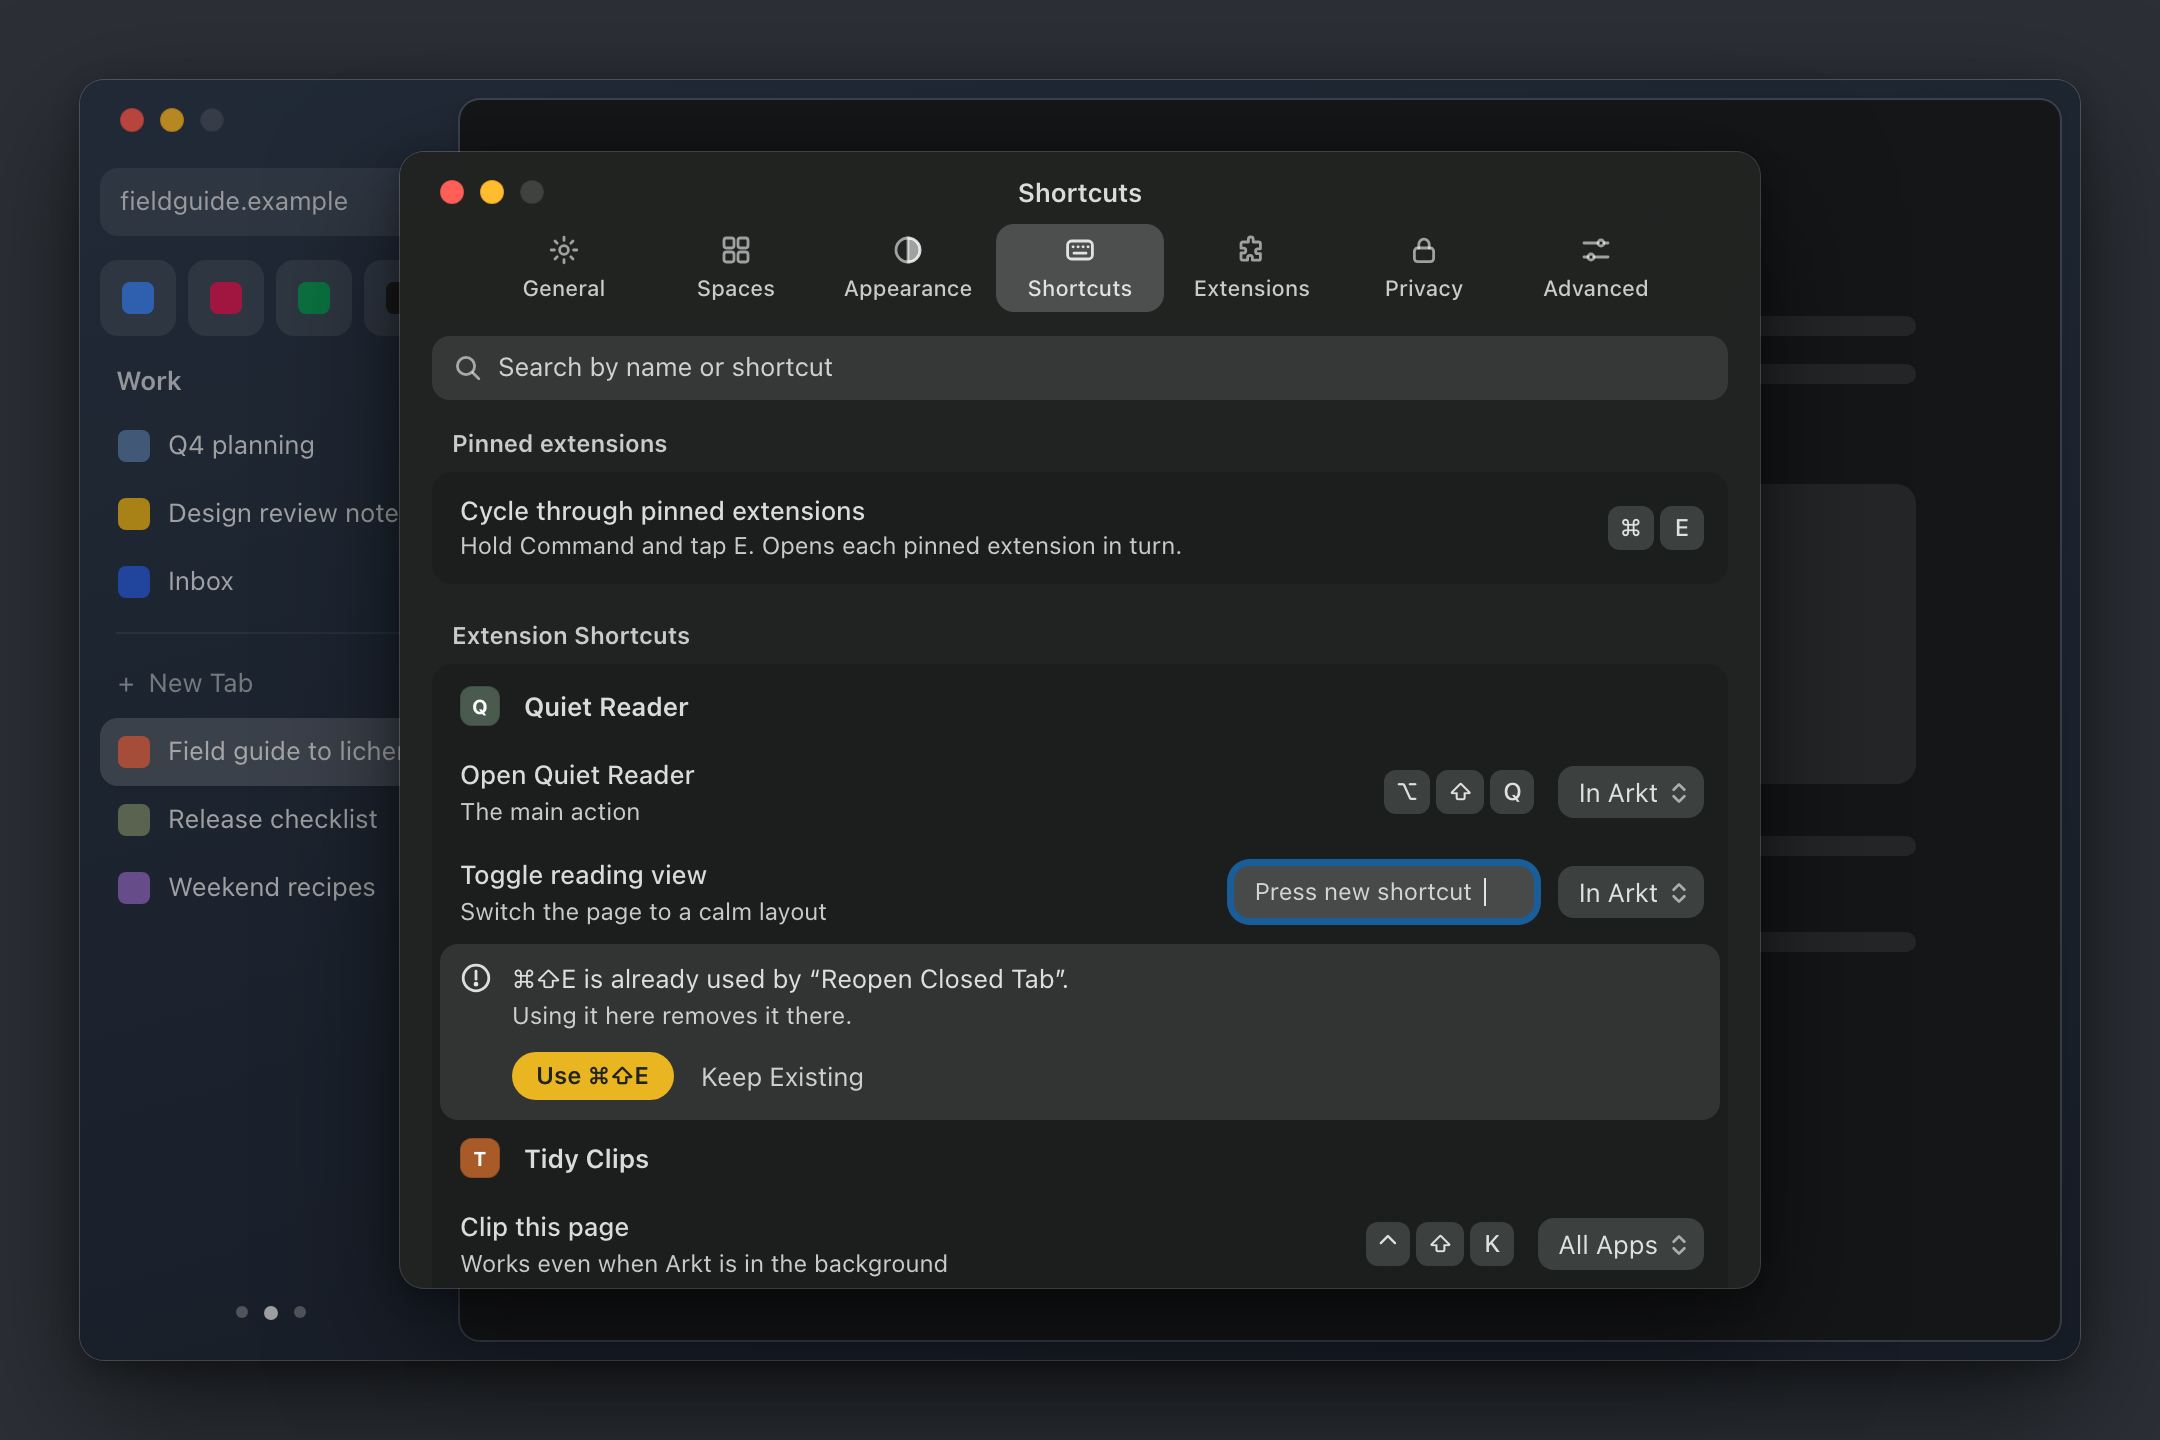
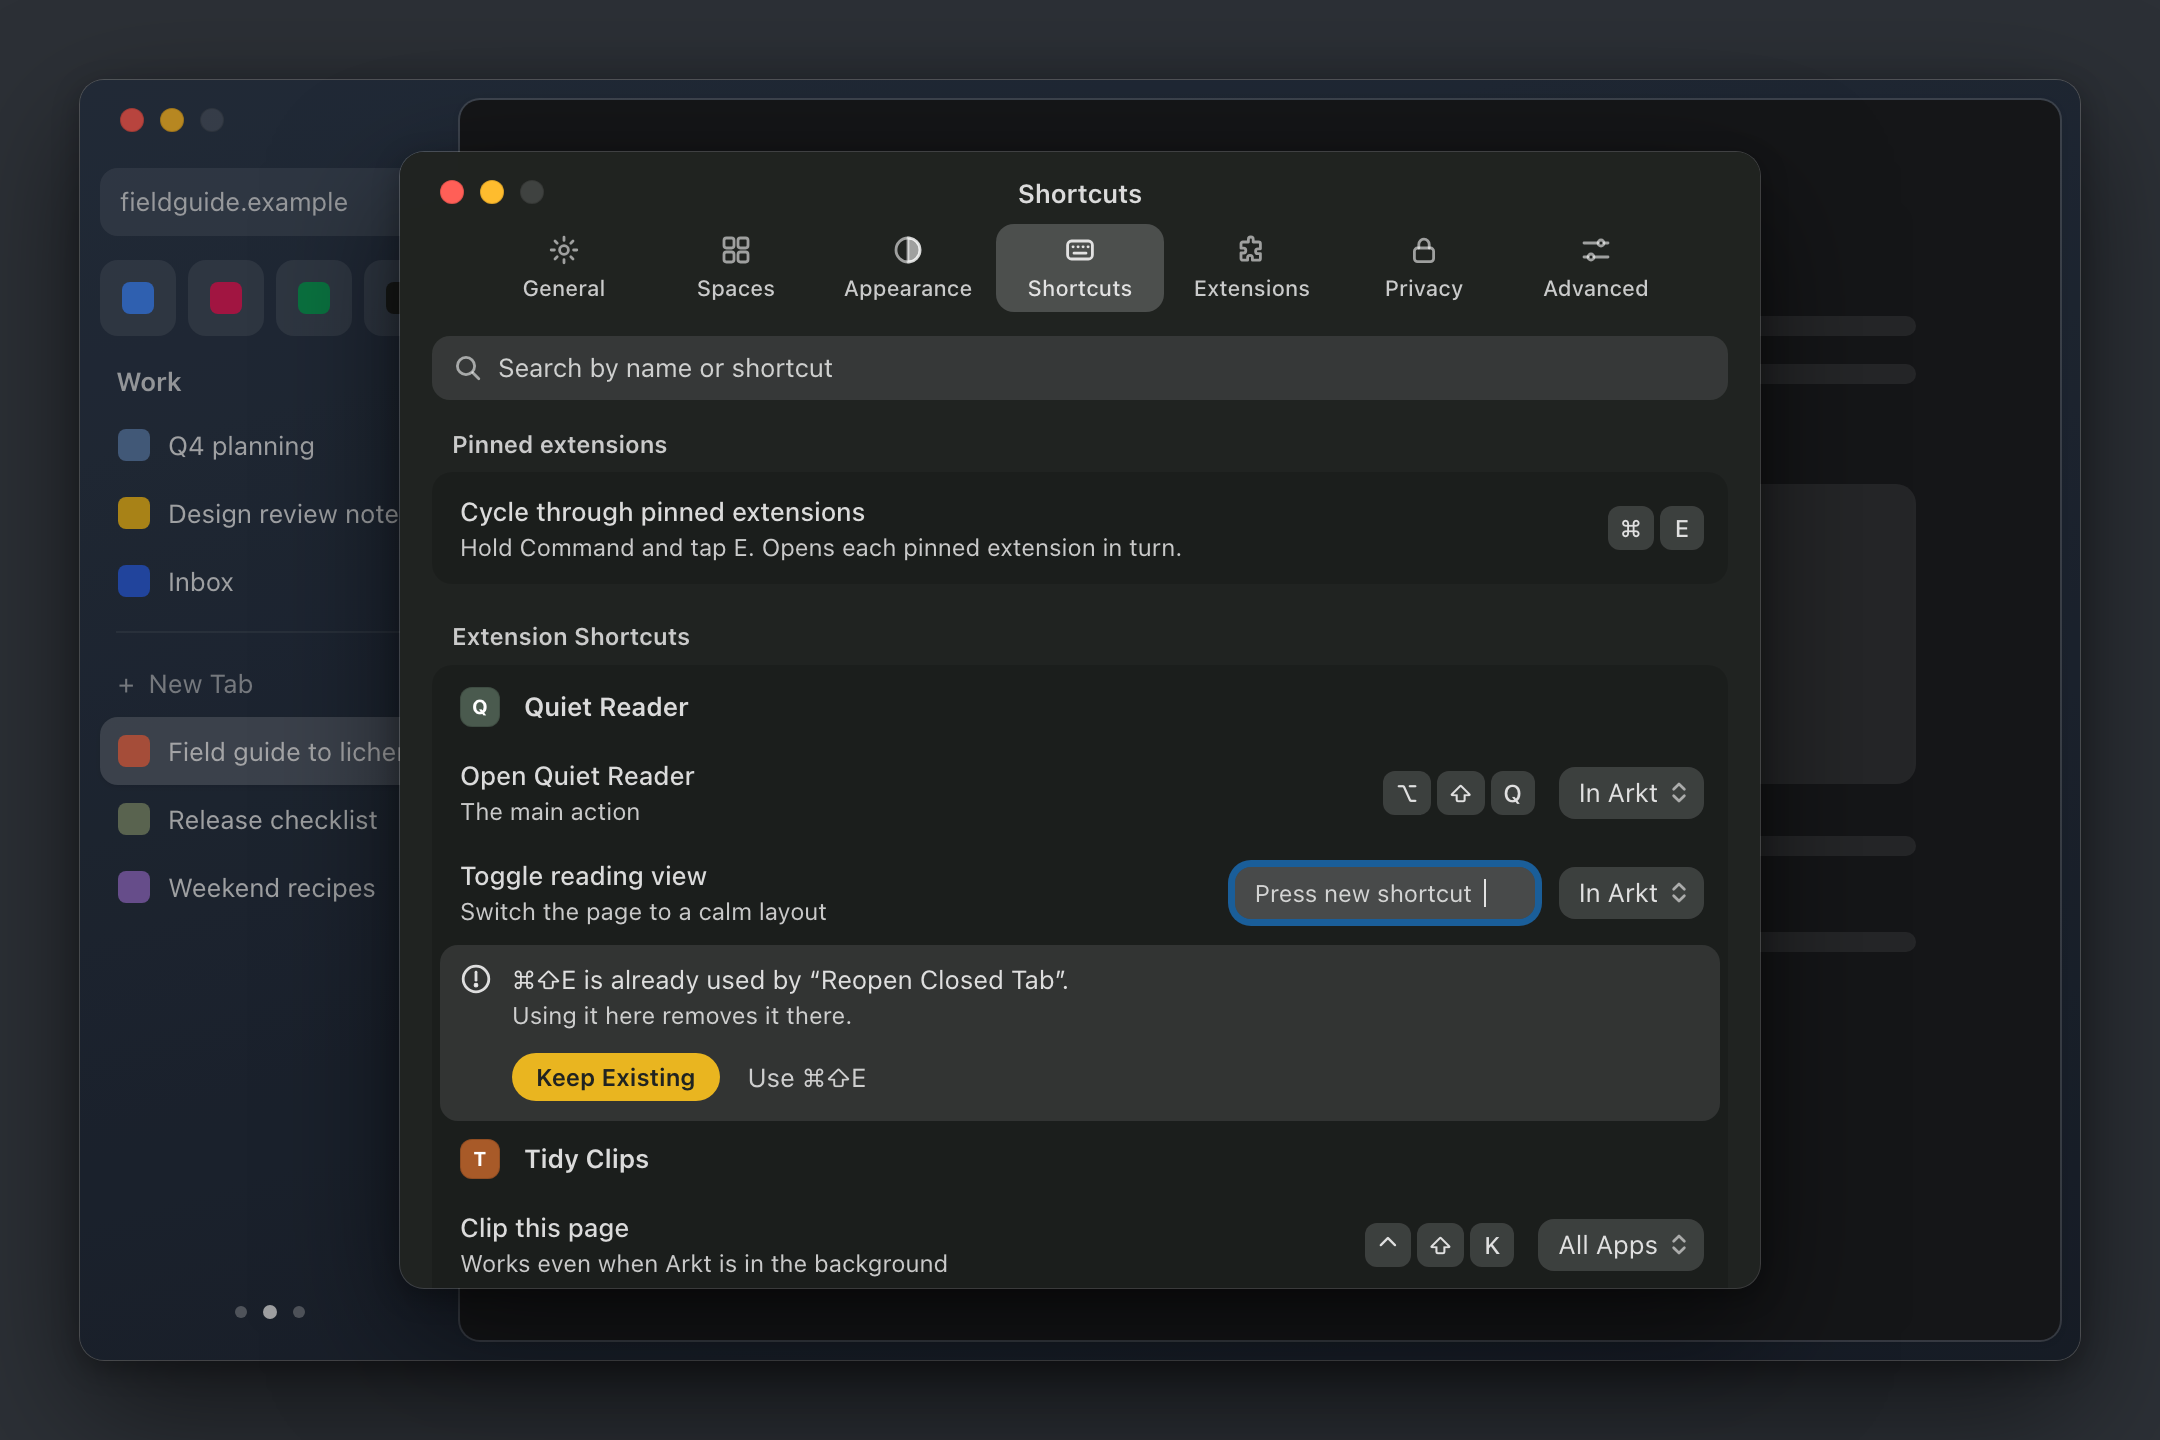
Design: Keep Existing is the default on a shortcut conflict
The maintainer answered #590: on a shortcut conflict Return keeps the
existing shortcut. The shortcuts-conflict state draws Keep Existing as the
primary and Use as the quiet secondary; the README records the answer and
the two conflict screens are recaptured from the prototype.

diff --git a/design/extensions/prototype.html b/design/extensions/prototype.html
@@ -780,7 +780,7 @@ const shortcutsBody = (conflict) => `<div class="search">${G.search}<span class=
   <div class="section"><h2>Pinned extensions</h2><div class="group"><div class="row cap2"><div class="lbl"><div>Cycle through pinned extensions</div><div class="cap">Hold Command and tap E. Opens each pinned extension in turn.</div></div>${keys(['&#8984;', 'E'])}</div></div></div>
   <div class="section"><h2>Extension Shortcuts</h2><div class="group">
     ${xhead(X.quiet)}${cmdRow('Open Quiet Reader', 'The main action', ['&#8997;', '&#8679;', 'Q'])}${cmdRow('Toggle reading view', 'Switch the page to a calm layout', conflict ? null : ['&#8984;', '&#8679;', 'E'], 'In Arkt', conflict ? { rec: 'Press new shortcut<i class="caret"></i>' } : {})}
-    ${conflict ? `<div class="warn"><span class="wg">${G.warn}</span><div class="msg">&#8984;&#8679;E is already used by “Reopen Closed Tab”.<div class="cap">Using it here removes it there.</div><div class="acts"><button class="pill small primary">Use &#8984;&#8679;E</button><button class="quiet">Keep Existing</button></div></div></div>` : ''}
+    ${conflict ? `<div class="warn"><span class="wg">${G.warn}</span><div class="msg">&#8984;&#8679;E is already used by “Reopen Closed Tab”.<div class="cap">Using it here removes it there.</div><div class="acts"><button class="pill small primary">Keep Existing</button><button class="quiet">Use &#8984;&#8679;E</button></div></div></div>` : ''}
     ${xhead(X.clips)}${cmdRow('Clip this page', 'Works even when Arkt is in the background', ['&#8963;', '&#8679;', 'K'], 'All Apps')}${cmdRow('Open clip list', 'Not set', null)}
   </div></div>`;
 const settingsX = conflict => () => desk(browser({ dim: true }) + `<div style="position:absolute;left:160px;top:36px;z-index:6">${settingsFrame('Shortcuts', shortcutsBody(conflict), 568)}</div>`);

diff --git a/design/extensions/README.md b/design/extensions/README.md
@@ -10,7 +10,7 @@ every state). States by hash, `#<a|b|c>-<pinned|reorder|install|install-long>[&d
 `#c-<empty|none-pinned|small>` and `#surf-<crashed|dialog|restore|pageinfo|zoom|sharing>`.
 
 Everyday chrome: the system font, the shell's tokens, neutral pills. Mustard is a fill and the one primary pill of a
-surface (Add Extension, Reload, OK, Restore, Use shortcut). Extension icons and names are synthetic. Pinned actions
+surface (Add Extension, Reload, OK, Restore, Keep Existing). Extension icons and names are synthetic. Pinned actions
 carry no mustard: a badge is a graphite capsule with porcelain text, "needs attention" is a graphite dot.
 
 ## Directions
@@ -77,8 +77,9 @@ section's first row is "Cycle through pinned extensions", Cmd-E. Each extension 
 icon, then one row per command: title, its description, the shortcut as keycaps, and a scope pop-up ("In Arkt" or "All
 Apps" for global commands). An unset command shows a Set Shortcut pill. Clicking the keycaps records (the field takes
 the system focus ring and reads "Press new shortcut"). A conflict uses the Settings pane's row-shaped notice: a neutral
-exclamation, "Cmd-Shift-E is already used by "Reopen Closed Tab"", **Use Cmd-Shift-E** (the one primary) and a quiet
-**Keep Existing**. Esc cancels recording; Delete clears. A shortcut set here survives updates to the extension.
+exclamation, "Cmd-Shift-E is already used by "Reopen Closed Tab"", **Keep Existing** (the one primary, the default:
+Return keeps the existing shortcut, #590) and a quiet **Use Cmd-Shift-E**. Kept, the extension's command stays
+unassigned until the user sets it in Settings, Shortcuts. Esc cancels recording; Delete clears. A shortcut set here survives updates to the extension.
 
 ## The other Views surfaces (#122)
 
@@ -132,8 +133,8 @@ letters in both. The menu uses the system's menu material. Increase Contrast add
 1. ~~Which direction for pinned actions and for the install sheet?~~ Answered: C for pinned actions, B for install.
 2. ~~Are new extensions pinned by default?~~ Answered 2026-11-05: no; the toast offers Pin.
 3. Does Cmd-E ship (KB-047) or stay deferred? The design is ready either way.
-4. Should "Keep Existing" be the default on a shortcut conflict (drawn: Use is primary because the user asked for it)?
-   **Still open** (#590).
+4. ~~Should "Keep Existing" be the default on a shortcut conflict?~~ Answered 2026-11-06 (#590): yes. Return keeps the
+   existing shortcut; Use is the secondary (`shortcuts-conflict`).
 5. Docked DevTools: confirm it is a known gap for the first release.
 6. ~~Global (All Apps) extension shortcuts?~~ Answered (#590): the Chrome model, In Arkt by default, each shortcut can
    opt in to All Apps (`shortcuts-record`).
@@ -171,7 +172,7 @@ Notes:
    for a new extension is pinned" under Pinned actions and question 2 above.
 2. Is the shipped engine-drawn install sheet (#244, #548) close enough to B? **Yes**, no restyle issue.
 
-### Still open
+### Answered questions (2026-11-06)
 
-- Default button on a shortcut conflict: Use or Keep Existing (`shortcuts-conflict`, drawn: Use is primary). Waiting
-  for the maintainer's clarification on #590.
+3. Default button on a shortcut conflict? **Keep Existing** (Return); Use is the secondary. The extension's command
+   stays unassigned until the user sets it in Settings, Shortcuts. `shortcuts-conflict` is redrawn that way.
